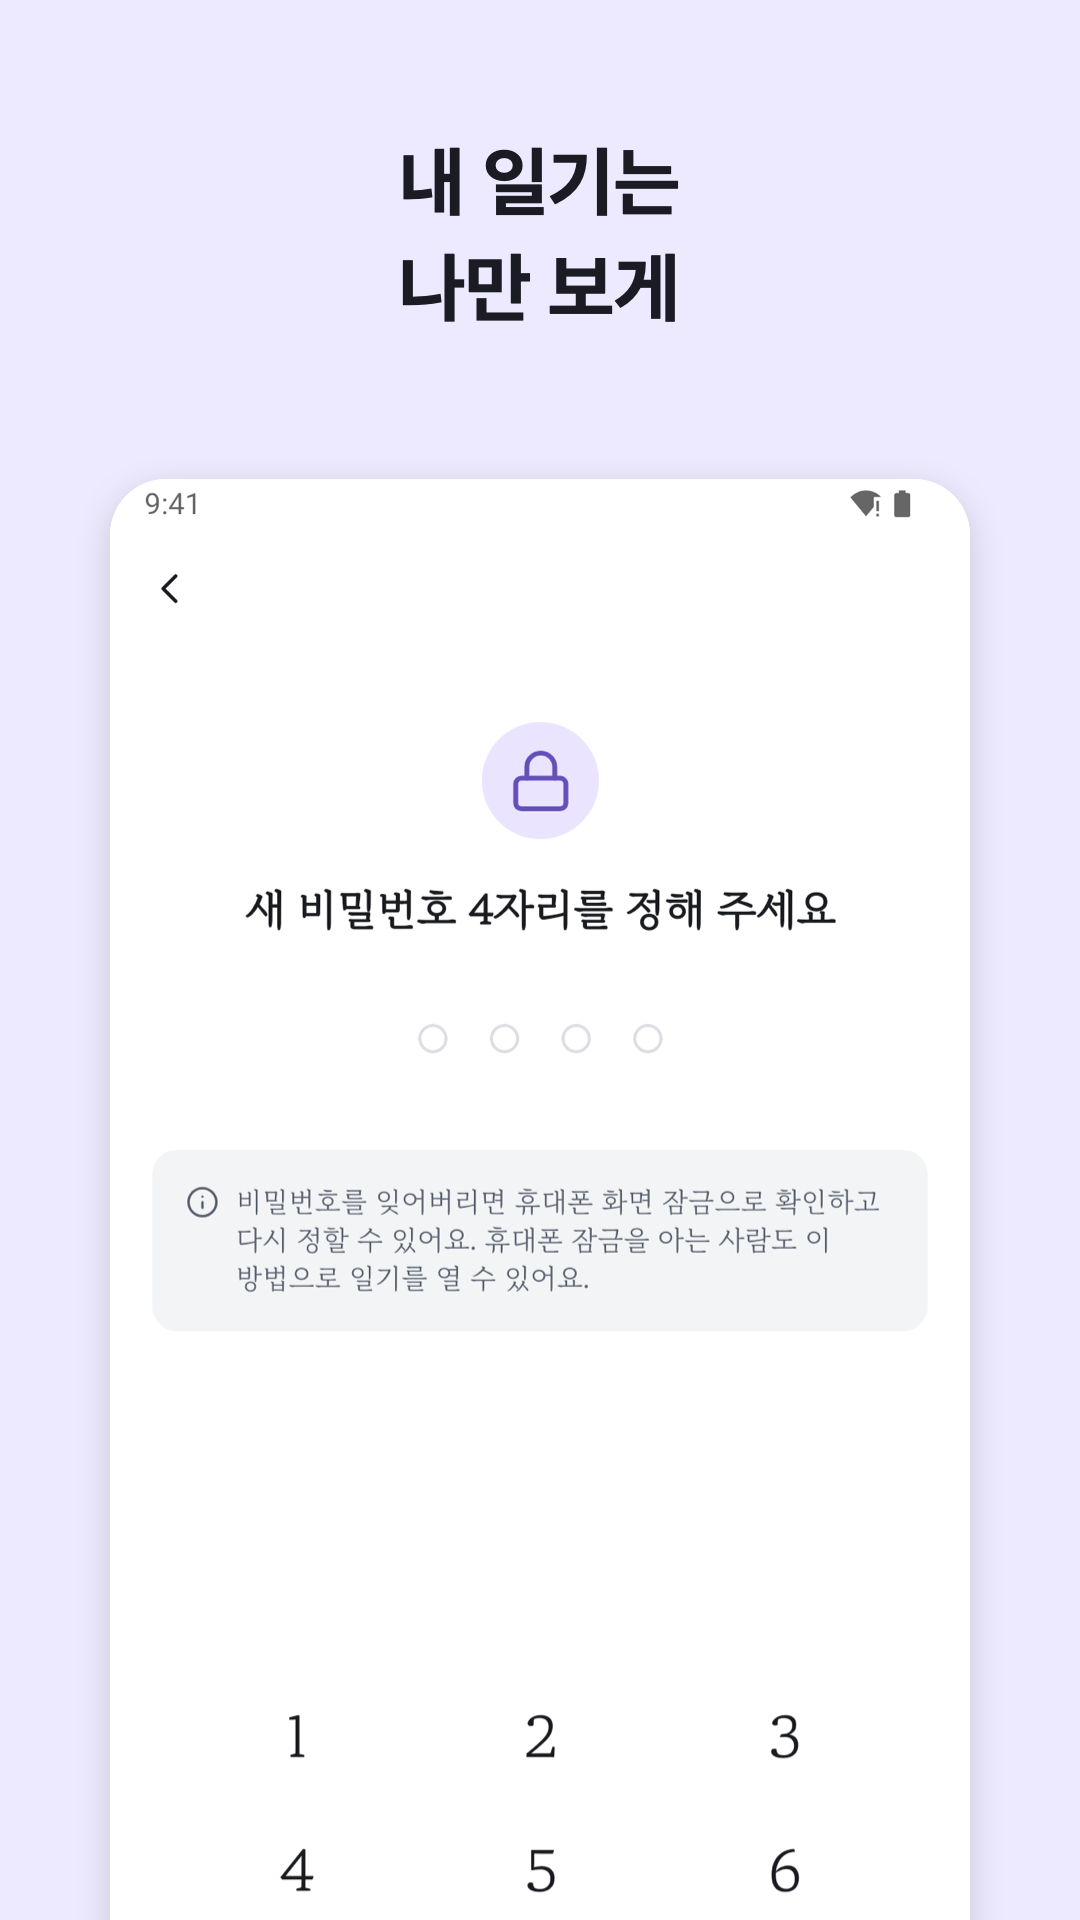
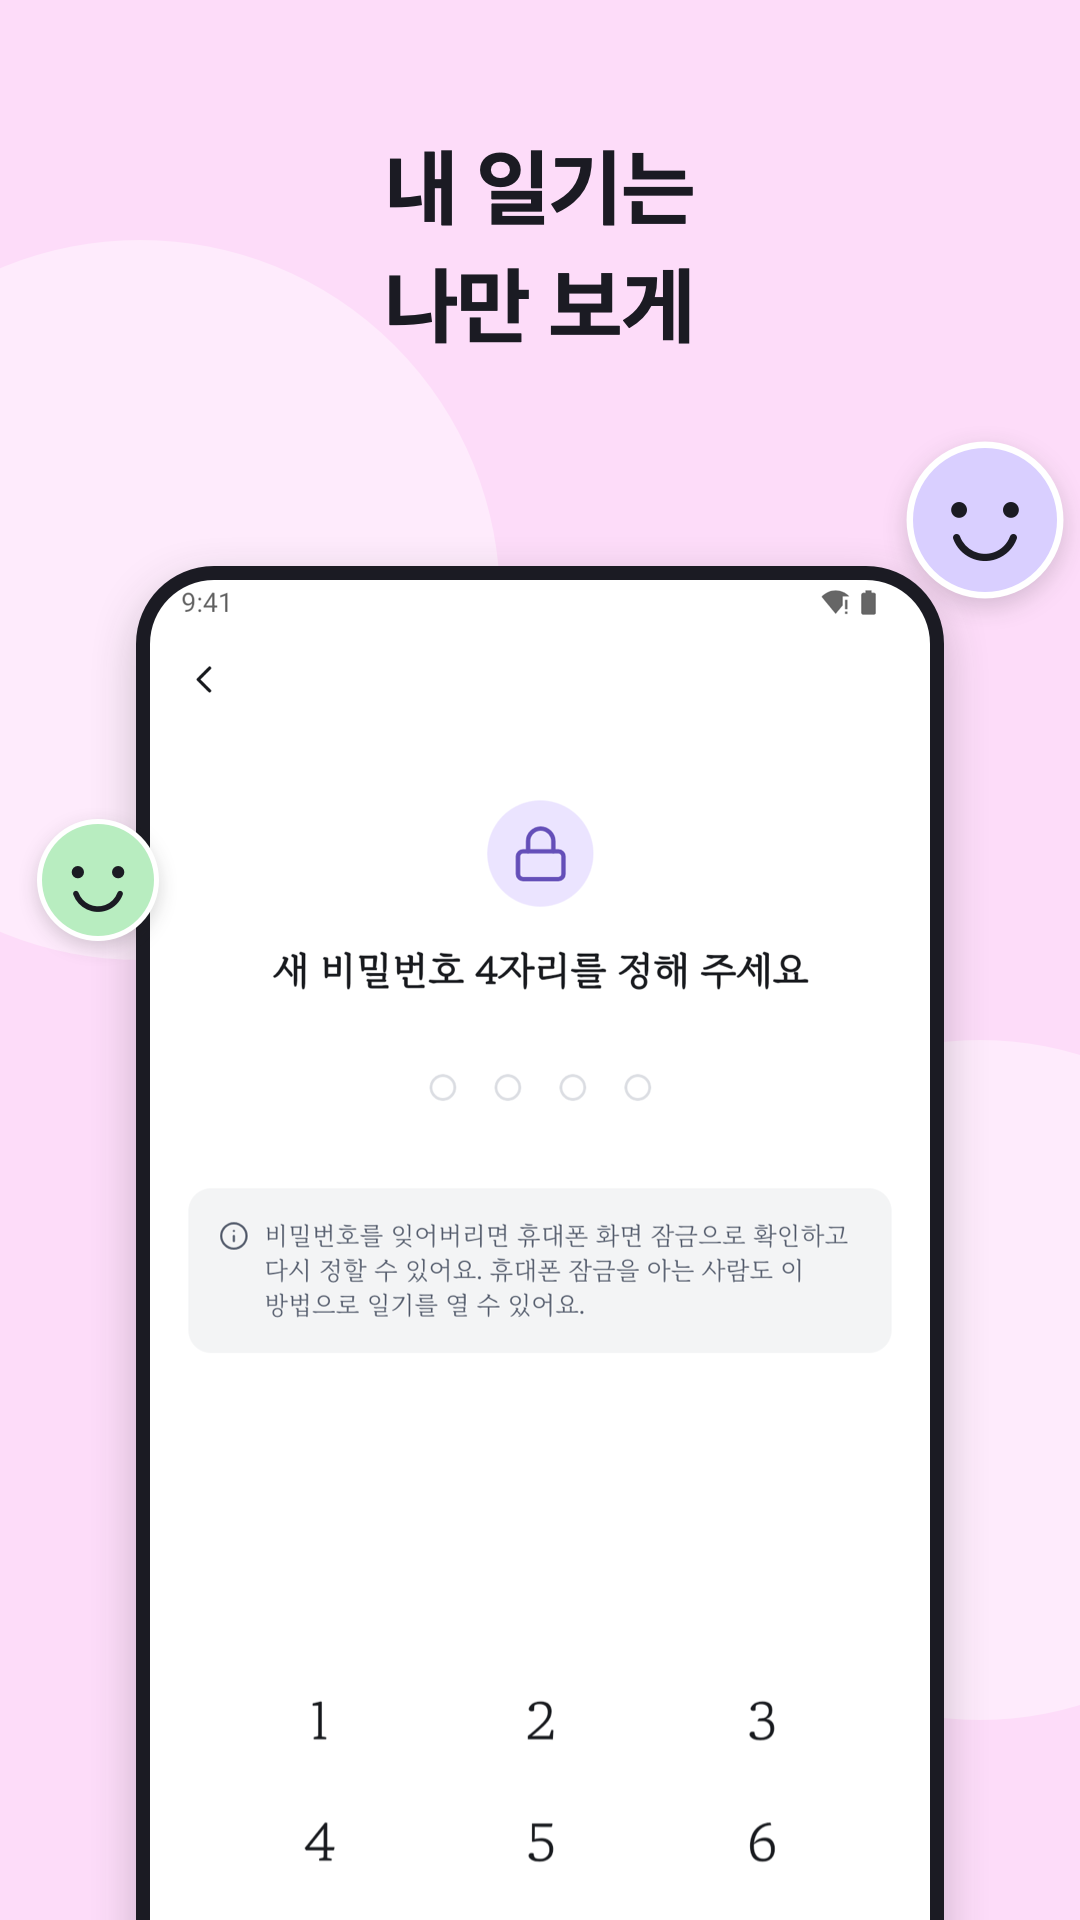
docs(release): 스토어 이미지를 장마다 색이 다른 구성으로 바꾸기
한 색 바탕에 화면만 놓으면 단조로웠다. 앱의 기분 색을 장마다 쓰고,
화면 조각을 크게 꺼내고 기분 얼굴을 띄워 눈에 걸리게 했다.

diff --git a/scripts/store/make_screens.swift b/scripts/store/make_screens.swift
@@ -15,9 +15,12 @@ func color(_ hex: UInt32) -> NSColor {
     NSColor(srgbRed: CGFloat((hex >> 16) & 255) / 255, green: CGFloat((hex >> 8) & 255) / 255, blue: CGFloat(hex & 255) / 255, alpha: 1)
 }
 
-let background = color(0xEDE9FE)
 let ink = color(0x1B1B23)
-let weak = color(0x5B5B6B)
+let weak = color(0x4A4A5C)
+let accent = color(0x6C56CE)
+
+/** 장마다 바뀌는 바탕. 앱의 기분 색에서 가져온다. */
+nonisolated(unsafe) var background = color(0xE7E0FF)
 
 func canvas(_ width: Int, _ height: Int, _ draw: () -> Void) -> NSBitmapImageRep {
     // 스토어는 알파 없는 PNG를 받는다.
@@ -41,49 +44,166 @@ func text(_ string: String, _ size: CGFloat, _ weight: String, _ tint: NSColor, 
     NSAttributedString(string: string, attributes: [.font: font, .foregroundColor: tint, .paragraphStyle: style]).draw(in: rect)
 }
 
-func phone(_ name: String, _ rect: NSRect, _ radius: CGFloat) {
-    let image = NSImage(contentsOfFile: "\(source)/\(name).png")!
-    let path = NSBezierPath(roundedRect: rect, xRadius: radius, yRadius: radius)
+func shot(_ name: String) -> NSImage { NSImage(contentsOfFile: "\(source)/\(name).png")! }
+
+func shadowed(_ alpha: CGFloat, _ blur: CGFloat, _ body: () -> Void) {
     let shadow = NSShadow()
-    shadow.shadowColor = NSColor(white: 0, alpha: 0.14)
-    shadow.shadowBlurRadius = 36
-    shadow.shadowOffset = NSSize(width: 0, height: -10)
+    shadow.shadowColor = NSColor(white: 0.1, alpha: alpha)
+    shadow.shadowBlurRadius = blur
+    shadow.shadowOffset = NSSize(width: 0, height: -blur / 3)
     NSGraphicsContext.saveGraphicsState()
     shadow.set()
-    NSColor.white.setFill()
-    path.fill()
+    body()
     NSGraphicsContext.restoreGraphicsState()
+}
+
+/** 기기 틀 안의 실제 앱 화면. 아래는 화면 밖으로 잘린다. */
+func phone(_ name: String, _ rect: NSRect, _ radius: CGFloat) {
+    let frame = rect.insetBy(dx: -14, dy: -14)
+    let bezel = NSBezierPath(roundedRect: frame, xRadius: radius + 14, yRadius: radius + 14)
+    shadowed(0.22, 48) {
+        ink.setFill()
+        bezel.fill()
+    }
     NSGraphicsContext.saveGraphicsState()
-    path.addClip()
-    let scale = rect.width / image.size.width
-    let height = image.size.height * scale
+    NSBezierPath(roundedRect: rect, xRadius: radius, yRadius: radius).addClip()
+    let image = shot(name)
+    let height = image.size.height * rect.width / image.size.width
     image.draw(in: NSRect(x: rect.minX, y: rect.maxY - height, width: rect.width, height: height))
     NSGraphicsContext.restoreGraphicsState()
+}
+
+/** 화면의 한 조각을 카드로 크게 꺼낸다. [area]는 캡처 좌표(위가 0)다. */
+func lifted(_ name: String, _ area: NSRect, _ rect: NSRect, _ radius: CGFloat, _ angle: CGFloat = 0) {
+    NSGraphicsContext.saveGraphicsState()
+    let turn = NSAffineTransform()
+    turn.translateX(by: rect.midX, yBy: rect.midY)
+    turn.rotate(byDegrees: angle)
+    turn.translateX(by: -rect.midX, yBy: -rect.midY)
+    turn.concat()
+    let path = NSBezierPath(roundedRect: rect, xRadius: radius, yRadius: radius)
+    shadowed(0.2, 40) {
+        NSColor.white.setFill()
+        path.fill()
+    }
+    path.addClip()
+    let image = shot(name)
+    let from = NSRect(x: area.minX, y: image.size.height - area.maxY, width: area.width, height: area.height)
+    image.draw(in: rect, from: from, operation: .sourceOver, fraction: 1)
+    NSGraphicsContext.restoreGraphicsState()
+}
+
+/** 바탕에 크게 놓는 둥근 덩어리. */
+func blob(_ tint: NSColor, _ x: CGFloat, _ y: CGFloat, _ width: CGFloat, _ height: CGFloat) {
+    tint.setFill()
+    NSBezierPath(ovalIn: NSRect(x: x, y: y, width: width, height: height)).fill()
+}
+
+enum Mood { case smile, laugh, wink }
+
+/** 앱의 기분 얼굴을 닮은 스티커. 흰 테두리로 바탕에서 띄운다. */
+func face(_ tint: NSColor, _ x: CGFloat, _ y: CGFloat, _ r: CGFloat, _ mood: Mood = .smile) {
+    shadowed(0.18, r * 0.35) {
+        NSColor.white.setFill()
+        NSBezierPath(ovalIn: NSRect(x: x - r - r * 0.09, y: y - r - r * 0.09, width: (r * 1.09) * 2, height: (r * 1.09) * 2)).fill()
+    }
+    tint.setFill()
+    NSBezierPath(ovalIn: NSRect(x: x - r, y: y - r, width: r * 2, height: r * 2)).fill()
+    ink.setFill()
+    ink.setStroke()
+    let eye = r * 0.11
+    let line = NSBezierPath()
+    line.lineWidth = r * 0.1
+    line.lineCapStyle = .round
+    switch mood {
+    case .laugh:
+        for side: CGFloat in [-1, 1] {
+            line.appendArc(withCenter: NSPoint(x: x + side * r * 0.36, y: y + r * 0.08), radius: r * 0.17, startAngle: 20, endAngle: 160)
+            line.move(to: NSPoint(x: x, y: y))
+        }
+    default:
+        NSBezierPath(ovalIn: NSRect(x: x - r * 0.36 - eye, y: y + r * 0.14 - eye, width: eye * 2, height: eye * 2)).fill()
+        NSBezierPath(ovalIn: NSRect(x: x + r * 0.36 - eye, y: y + r * 0.14 - eye, width: eye * 2, height: eye * 2)).fill()
+    }
+    line.removeAllPoints()
+    if mood == .laugh {
+        for side: CGFloat in [-1, 1] {
+            let arc = NSBezierPath()
+            arc.lineWidth = r * 0.1
+            arc.lineCapStyle = .round
+            arc.appendArc(withCenter: NSPoint(x: x + side * r * 0.36, y: y + r * 0.06), radius: r * 0.17, startAngle: 20, endAngle: 160)
+            arc.stroke()
+        }
+    }
+    line.appendArc(withCenter: NSPoint(x: x, y: y - r * 0.1), radius: r * 0.42, startAngle: 200, endAngle: 340)
+    line.stroke()
 }
 
 func save(_ rep: NSBitmapImageRep, _ name: String) {
     try! rep.representation(using: .png, properties: [:])!.write(to: URL(fileURLWithPath: "\(output)/\(name).png"))
 }
 
-let screens = [
-    ("w1", "바쁜 날에도\n일기를 남겨요"),
-    ("b1", "사진까지\n내 드라이브에"),
-    ("c1", "한 달 기분을\n달력으로"),
-    ("l1", "내 일기는\n나만 보게"),
-    ("f1", "글꼴 10종에서\n골라 써요"),
-    ("h1", "지난 일기를\n사진과 함께")
-]
-for (index, (name, title)) in screens.enumerated() {
-    let rep = canvas(1080, 1920) {
-        text(title, 76, "Bold", ink, NSRect(x: 60, y: 1500, width: 960, height: 300), .center)
-        phone(name, NSRect(x: 110, y: -470, width: 860, height: 1911), 56)
-    }
-    save(rep, "phone-\(index + 1)")
+let sky = color(0xB8E8FF), yellow = color(0xFFF68A), peach = color(0xFFD4A8)
+let pink = color(0xFCC9F5), mint = color(0xB8EDC0), lavender = color(0xD9CFFF)
+
+func title(_ words: String) {
+    text(words, 84, "Bold", ink, NSRect(x: 40, y: 1480, width: 1000, height: 320), .center)
 }
 
+func slide(_ tint: NSColor, _ name: String, _ words: String, _ extra: () -> Void) -> NSBitmapImageRep {
+    background = tint
+    return canvas(1080, 1920) {
+        blob(NSColor(white: 1, alpha: 0.42), -220, 960, 720, 720)
+        blob(NSColor(white: 1, alpha: 0.42), 640, 200, 680, 680)
+        title(words)
+        phone(name, NSRect(x: 150, y: -520, width: 780, height: 1860), 64)
+        extra()
+    }
+}
+
+save(slide(lavender, "w1", "바쁜 날에도\n일기를 남겨요") {
+    lifted("w1", NSRect(x: 30, y: 345, width: 660, height: 210), NSRect(x: 130, y: 560, width: 820, height: 261), 44, -2)
+    face(yellow, 120, 1380, 88, .laugh)
+    face(peach, 960, 1420, 74)
+    face(pink, 985, 1040, 54)
+}, "phone-1")
+
+save(slide(sky, "b1", "사진까지\n내 드라이브에") {
+    lifted("b1", NSRect(x: 50, y: 252, width: 980, height: 230), NSRect(x: 40, y: 760, width: 1000, height: 235), 40, 1.5)
+    face(mint, 112, 1395, 70)
+}, "phone-2")
+
+save(slide(yellow.blended(withFraction: 0.45, of: .white)!, "c1", "한 달 기분을\n달력으로") {
+    lifted("c1", NSRect(x: 30, y: 418, width: 1020, height: 140), NSRect(x: 30, y: 700, width: 1020, height: 140), 36, -1.5)
+    face(peach, 980, 1390, 80, .laugh)
+    face(sky, 104, 1400, 62)
+}, "phone-3")
+
+save(slide(pink.blended(withFraction: 0.35, of: .white)!, "l1", "내 일기는\n나만 보게") {
+    face(lavender, 985, 1400, 72)
+    face(mint, 98, 1040, 56)
+}, "phone-4")
+
+save(slide(mint.blended(withFraction: 0.35, of: .white)!, "f1", "글꼴 10종에서\n골라 써요") {
+    lifted("f1", NSRect(x: 50, y: 254, width: 980, height: 237), NSRect(x: 30, y: 880, width: 1020, height: 247), 44, -2)
+    face(yellow, 975, 1395, 76, .laugh)
+}, "phone-5")
+
+save(slide(peach.blended(withFraction: 0.35, of: .white)!, "h1", "지난 일기를\n사진과 함께") {
+    lifted("h1", NSRect(x: 45, y: 430, width: 990, height: 535), NSRect(x: 30, y: 300, width: 1020, height: 551), 48, 2)
+    face(pink, 110, 1395, 68)
+}, "phone-6")
+
+background = lavender
 let feature = canvas(1024, 500) {
-    text("바쁜 날에도\n일기를 남겨요", 58, "Bold", ink, NSRect(x: 72, y: 170, width: 520, height: 170), .left)
-    text("회원가입 없이, 사진까지 내 드라이브에", 26, "Medium", weak, NSRect(x: 72, y: 118, width: 520, height: 44), .left)
-    phone("h1", NSRect(x: 620, y: -420, width: 330, height: 733 + 140), 28)
+    blob(sky, 560, 230, 420, 420)
+    blob(yellow, 800, -120, 340, 340)
+    blob(pink, 470, -170, 300, 300)
+    text("바쁜 날에도\n일기를 남겨요", 60, "Bold", ink, NSRect(x: 64, y: 180, width: 500, height: 180), .left)
+    text("회원가입 없이, 사진까지 내 드라이브에", 25, "Medium", weak, NSRect(x: 64, y: 122, width: 500, height: 44), .left)
+    lifted("h1", NSRect(x: 45, y: 430, width: 990, height: 535), NSRect(x: 560, y: 110, width: 400, height: 216), 28, -3)
+    face(yellow, 560, 390, 56, .laugh)
+    face(mint, 900, 410, 44)
+    face(peach, 980, 110, 36)
 }
 save(feature, "feature")

diff --git a/docs/release.md b/docs/release.md
@@ -60,6 +60,7 @@ Play는 기존 앱 업데이트, App Store는 새 출시다. 조사일 2026-10-3
 7. 태블릿에서 넓게(목록·상세 두 칸, 아직 찍지 않음)
 
 폰 6장과 피처 그래픽은 `docs/store/screens/`에 있고 문구는 `docs/store/listing.md`에 있다(2026-11-07).
+장마다 앱의 기분 색을 바탕으로 쓰고, 화면 조각을 크게 꺼내고 기분 얼굴을 띄운다. 당근의 큰 브랜드 도형, Day One의 장별 색, 하루콩의 띄운 카드에서 가져왔다(각 앱의 Play 페이지).
 
 ## 소개 문구
 
